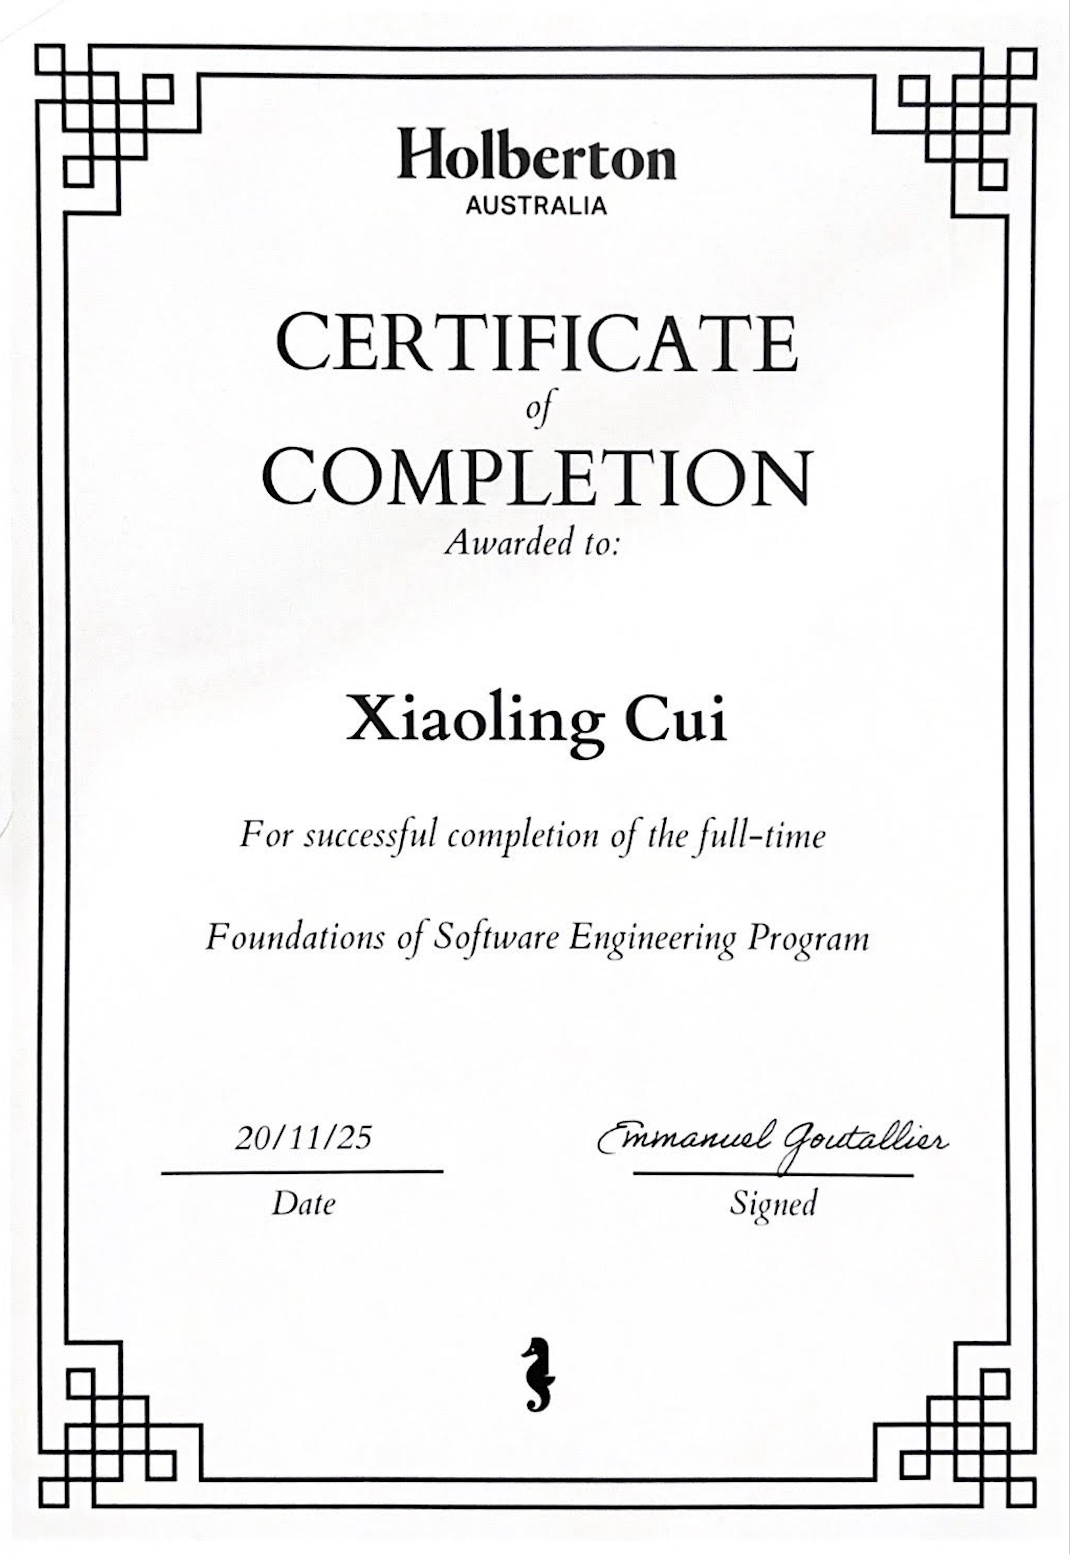
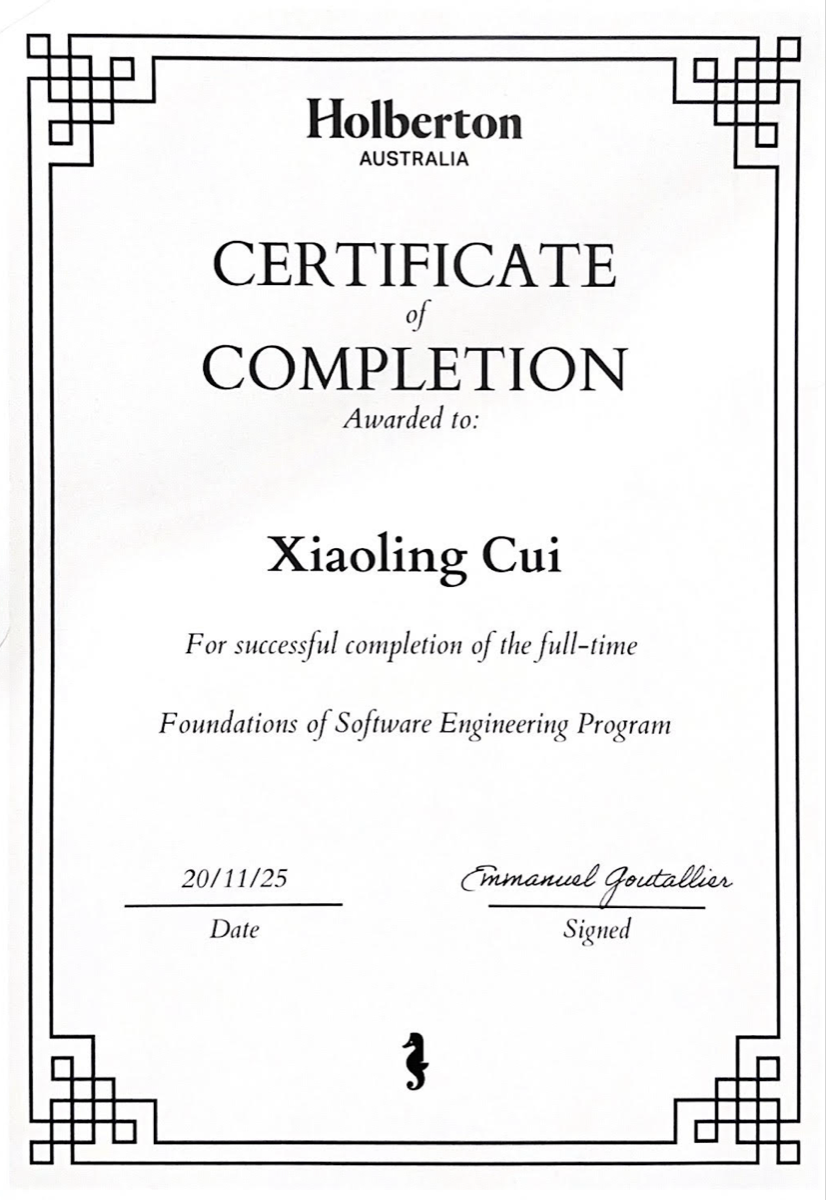
Complete Vercel migration and performance optimizations
- Remove hero button/icon animations for instant display
- Delete GitHub Actions workflow (now using Vercel)
- Migrate to WebP images (93-97% size reduction)
- Remove GitHub Pages basePath configuration
- Add Vercel configuration and deployment setup

diff --git a/app/project/[slug]/page.tsx b/app/project/[slug]/page.tsx
@@ -15,7 +15,7 @@ const projects = {
       "Flask-based post-surgery care assistant powered by the Heidi AI REST API for audio transcription and AI-driven care planning.",
     longDescription:
       "A production-ready post-surgery care assistant built with Flask and vanilla JavaScript. Features secure file uploads, audio transcription via Heidi AI API, SSE-driven streaming responses, and automated pytest suites. Delivers a clinician-focused UI with drag-and-drop functionality and real-time AI updates.",
-    image: "/healthcare.png",
+    image: "/healthcare.webp",
     technologies: ["Flask", "Python", "JavaScript", "HTML/CSS", "Heidi AI API", "pytest", "Docker"],
     github: "https://github.com/xl-c111/heidi_AI_integration_project",
     demo: "https://github.com/xl-c111/heidi_AI_integration_project",
@@ -39,7 +39,7 @@ const projects = {
       "Full-stack flower marketplace with React/TypeScript frontend, Express backend, and complete e-commerce functionality.",
     longDescription:
       "A production-ready flower marketplace built with React, TypeScript, and Express. Features secure checkout with Stripe, Auth0 authentication, AI-powered gift messages via Gemini AI, automated email confirmations, and full Docker containerization with CI/CD deployment.",
-    image: "/flora.jpg",
+    image: "/flora.webp",
     technologies: [
       "React",
       "TypeScript",
@@ -75,7 +75,7 @@ const projects = {
       "Full-stack Airbnb clone with payment processing, featuring secure Stripe integration, AWS deployment, and optimized database performance.",
     longDescription:
       "A production-ready Airbnb clone featuring Stripe payment integration, AWS deployment, and 70% database performance optimization. Built with Flask, React, and MySQL, this platform includes complete booking management, role-based dashboards, and RESTful APIs with 85%+ test coverage.",
-    image: "/hbnb.jpg",
+    image: "/hbnb.webp",
     technologies: ["Python", "Flask", "React", "Tailwind CSS", "MySQL", "Stripe API", "AWS"],
     github: "https://github.com/xl-c111/holbertonschool-hbnb",
     demo: "https://d2gfqpg21nkiyl.cloudfront.net/",

diff --git a/components/portfolio.tsx b/components/portfolio.tsx
@@ -20,7 +20,7 @@ const projects = [
     title: "HBnB - Luxe Airbnb Clone",
     description:
       "Full-stack Airbnb clone featuring instant booking, payment processing, and comprehensive host analytics.",
-    image: "/hbnb.png",
+    image: "/hbnb.webp",
     tags: ["React", "Flask", "Tailwind CSS", "MySQL", "AWS", "Stripe"],
     liveDemo: "https://d2gfqpg21nkiyl.cloudfront.net/",
     github: "https://github.com/xl-c111/holbertonschool-hbnb",
@@ -29,7 +29,7 @@ const projects = [
     slug: "flora",
     title: "Flora",
     description: "Full-stack flower marketplace with AI gift messages, subscriptions, and Stripe checkout.",
-    image: "/flora.jpg",
+    image: "/flora.webp",
     tags: ["React", "TypeScript", "Express", "Auth0", "Prisma", "Gemini AI"],
     liveDemo: "https://dzmu16crq41il.cloudfront.net/",
     github: "https://github.com/xl-c111/Flora",
@@ -38,7 +38,7 @@ const projects = [
     slug: "heidi-ai-care-assistant",
     title: "Heidi AI Care Assistant",
     description: "Post-surgery care assistant with Heidi AI integration for audio transcription and care planning.",
-    image: "/healthcare.png",
+    image: "/healthcare.webp",
     tags: ["Flask", "Python", "JavaScript", "Heidi AI API", "Docker"],
     liveDemo: "https://github.com/xl-c111/heidi_AI_integration_project",
     github: "https://github.com/xl-c111/heidi_AI_integration_project",
@@ -50,7 +50,7 @@ const certificates = [
     title: "Foundations of Software Engineering",
     issuer: "Holberton Australia",
     date: "November 2025",
-    image: "/certificate.png",
+    image: "/certificate.webp",
     description: "Intensive training in programming, algorithms, and real-world project development.",
   },
 ];

diff --git a/components/hero.tsx b/components/hero.tsx
@@ -67,8 +67,7 @@ export function Hero() {
             </div>
           </FadeIn>
 
-          <FadeIn delay={0.3} duration={0.2}>
-            <div className="flex flex-col sm:flex-row gap-3 sm:gap-4 mb-10">
+          <div className="flex flex-col sm:flex-row gap-3 sm:gap-4 mb-10">
               <Button
                 size="lg"
                 className="bg-[#B19470] hover:bg-[#9A7F5E] text-[#F8FAE5] hover:scale-105 transition-all duration-200 will-change-transform w-full sm:w-auto"
@@ -100,10 +99,8 @@ export function Hero() {
                 </button>
               </Button>
             </div>
-          </FadeIn>
 
-          <FadeIn delay={0.35} duration={0.2}>
-            <div className="flex gap-4">
+          <div className="flex gap-4">
               {[
                 { icon: Github, href: "https://github.com/xl-c111" },
                 { icon: Linkedin, href: "https://www.linkedin.com/in/xiaolingcui/" },
@@ -209,7 +206,6 @@ export function Hero() {
                 );
               })}
             </div>
-          </FadeIn>
         </div>
 
         <FadeIn delay={0.2} duration={0.25} direction="right" className="hidden md:flex items-center justify-center">

diff --git a/lib/utils-image.ts b/lib/utils-image.ts
@@ -1,14 +1,7 @@
 /**
- * Get the full image path with basePath for GitHub Pages deployment
+ * Get the image path (simplified for Vercel deployment)
  */
 export function getImagePath(src: string): string {
-  const basePath = process.env.NODE_ENV === 'production' ? '/xiaoling-cui-portfolio' : '';
-
-  // If src already includes the basePath or is an external URL, return as is
-  if (src.startsWith('http') || src.startsWith(basePath)) {
-    return src;
-  }
-
-  // Prepend basePath for local images
-  return `${basePath}${src}`;
+  // Simply return the src as-is since we no longer need basePath workarounds
+  return src;
 }

diff --git a/DEPLOYMENT.md b/DEPLOYMENT.md
@@ -1,0 +1,168 @@
+# Deployment Guide - Vercel
+
+This portfolio has been optimized for deployment on Vercel. Follow these steps to deploy your portfolio.
+
+## What We've Optimized
+
+### 🖼 Image Optimization (93-94% size reduction!)
+- **certificate.webp**: 1.1MB → 42KB
+- **hbnb.webp**: 3.4MB → 91KB
+- **healthcare.webp**: → 54KB
+- **flora.webp**: → 94KB
+- **hero.webp**: → 195KB
+
+All images converted to WebP format for maximum performance.
+
+### ⚡ Performance Improvements
+- Removed GitHub Pages workarounds (basePath, static export)
+- Enabled Next.js automatic image optimization
+- Added lazy loading for all below-the-fold images
+- Configured optimal caching headers
+- Enabled AVIF and WebP formats
+
+### 🔧 Configuration Changes
+- **next.config.mjs**: Removed `output: 'export'`, `basePath`, and `unoptimized` settings
+- **vercel.json**: Added security headers and caching policies
+- **lib/utils-image.ts**: Simplified image path handling
+
+## Deploying to Vercel
+
+### Option 1: Deploy via Vercel CLI (Recommended)
+
+1. **Login to Vercel**
+   ```bash
+   vercel login
+   ```
+
+2. **Deploy to preview**
+   ```bash
+   pnpm preview
+   # or
+   vercel
+   ```
+
+3. **Deploy to production**
+   ```bash
+   pnpm deploy
+   # or
+   vercel --prod
+   ```
+
+### Option 2: Deploy via Vercel Dashboard
+
+1. Go to [vercel.com](https://vercel.com)
+2. Click "Add New Project"
+3. Import your GitHub repository
+4. Vercel will auto-detect Next.js settings
+5. Click "Deploy"
+
+### Option 3: Deploy via GitHub Integration (Best for continuous deployment)
+
+1. Go to [vercel.com](https://vercel.com) and sign in
+2. Click "Add New Project"
+3. Import your GitHub repository: `xl-c111/xiaoling-cui-portfolio`
+4. Configure project:
+   - **Framework Preset**: Next.js
+   - **Build Command**: `pnpm build` (auto-detected)
+   - **Install Command**: `pnpm install` (auto-detected)
+   - **Root Directory**: `./` (default)
+5. Click "Deploy"
+
+**Benefits of GitHub integration:**
+- Automatic deployments on every `git push`
+- Preview deployments for pull requests
+- Instant rollbacks
+- Zero configuration
+
+## Post-Deployment
+
+### Custom Domain (Optional)
+1. In Vercel dashboard, go to your project
+2. Settings → Domains
+3. Add your custom domain
+4. Update DNS records as instructed
+
+### Environment Variables (If needed)
+1. In Vercel dashboard, go to your project
+2. Settings → Environment Variables
+3. Add any required variables
+
+### Analytics
+Your portfolio already includes `@vercel/analytics` - it will automatically start collecting data once deployed.
+
+## Expected Performance
+
+After deploying to Vercel, you should see:
+- **Load time**: < 1 second (from edge locations)
+- **Lighthouse score**: 95+ (Performance, Accessibility, Best Practices, SEO)
+- **First Contentful Paint**: < 1s
+- **Largest Contentful Paint**: < 2.5s
+- **Cumulative Layout Shift**: < 0.1
+
+## Useful Commands
+
+```bash
+# Install dependencies
+pnpm install
+
+# Run development server
+pnpm dev
+
+# Build for production
+pnpm build
+
+# Start production server locally
+pnpm start
+
+# Optimize images (if you add new ones)
+pnpm optimize-images
+
+# Deploy preview
+pnpm preview
+
+# Deploy to production
+pnpm deploy
+```
+
+## Troubleshooting
+
+### Build fails on Vercel
+- Check build logs in Vercel dashboard
+- Ensure all dependencies are in `package.json`
+- Verify TypeScript types are correct: `pnpm build` locally
+
+### Images not loading
+- Verify image files exist in `public/` directory
+- Check browser console for errors
+- Ensure WebP format is supported (all modern browsers support it)
+
+### Slow performance
+- Check Vercel Analytics for insights
+- Verify images are WebP format
+- Check Network tab in DevTools
+
+## Comparison: GitHub Pages vs Vercel
+
+| Feature | GitHub Pages | Vercel |
+|---------|--------------|--------|
+| Image optimization | ❌ Manual | ✅ Automatic |
+| CDN | ✅ Basic | ✅ 275+ edge locations |
+| Build time | ~2 min | ~30 sec |
+| Cold start | N/A | None (static) |
+| Custom domains | ✅ | ✅ |
+| HTTPS | ✅ | ✅ |
+| Preview deployments | ❌ | ✅ |
+| Analytics | ❌ | ✅ Built-in |
+| ISR/SSR | ❌ | ✅ |
+| Cost | Free | Free (Hobby plan) |
+
+## Next Steps
+
+1. Deploy to Vercel using one of the methods above
+2. Test your portfolio on the preview URL
+3. Share your portfolio with interviewers! 🎉
+4. (Optional) Add a custom domain for extra professionalism
+
+---
+
+**Your portfolio is now production-ready and optimized for maximum performance!** 🚀
